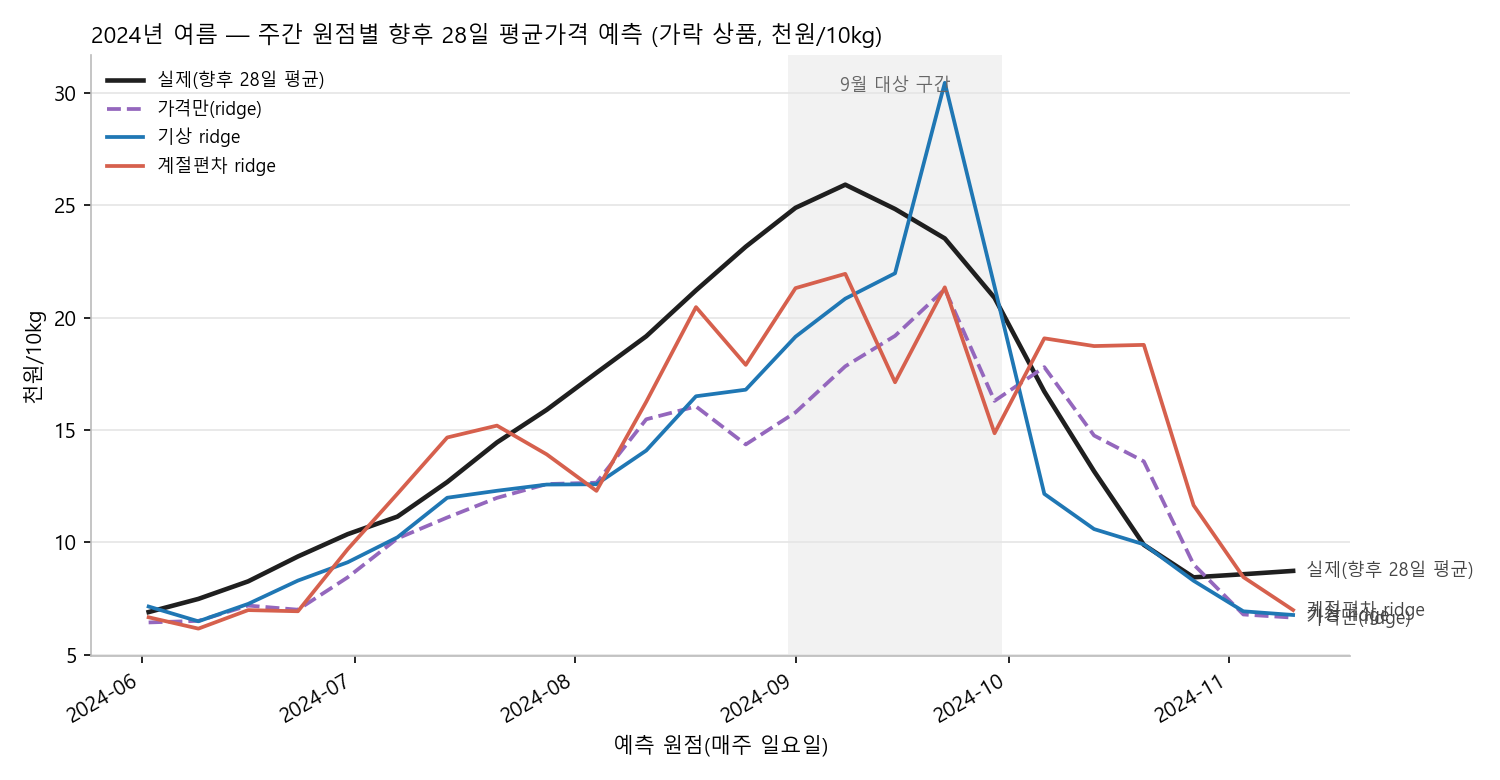
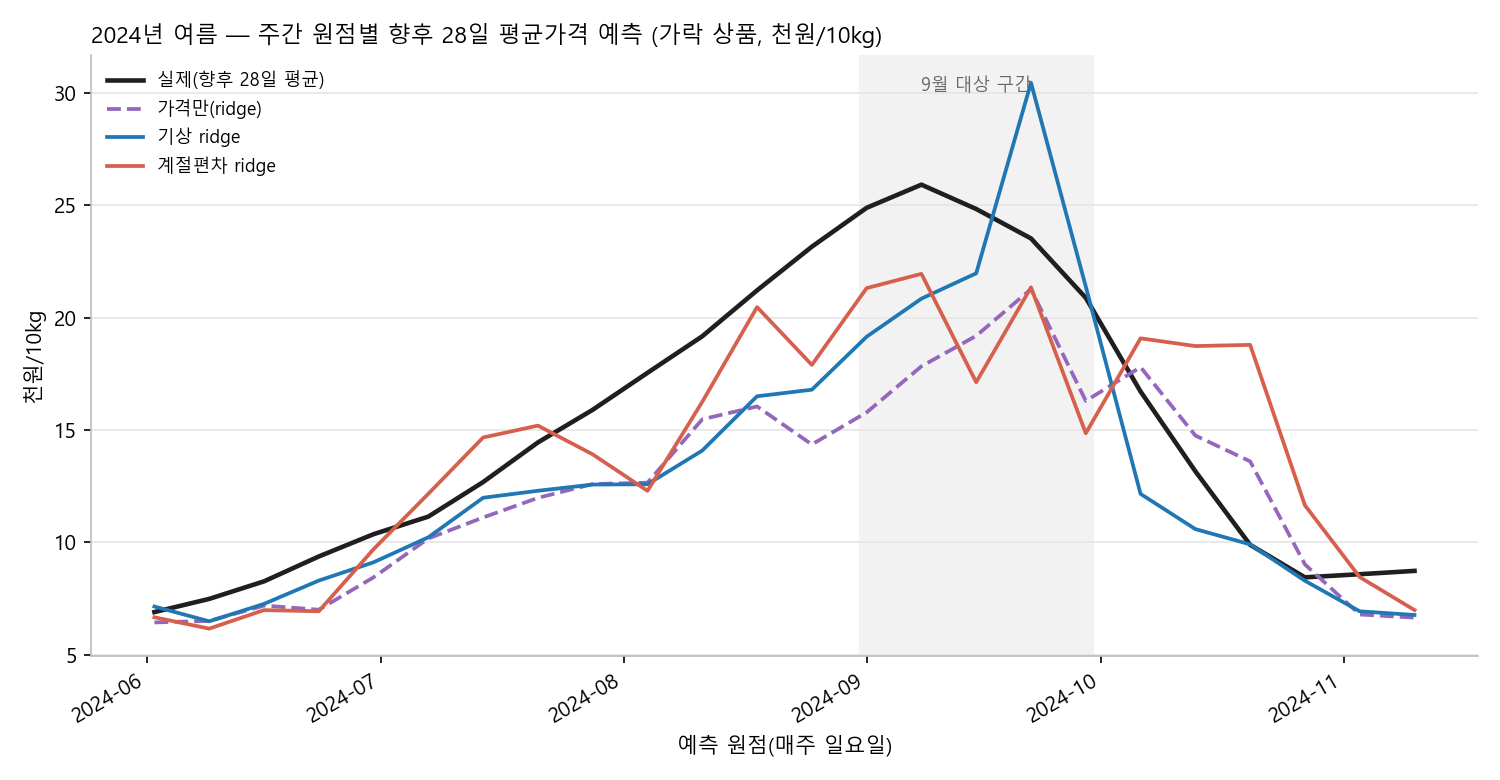
plot: 우측 끝 라벨 충돌 제거(범례로 대체)

diff --git a/src/plot_2024.py b/src/plot_2024.py
@@ -40,9 +40,6 @@ def main() -> None:
     fig, ax = plt.subplots(figsize=(10, 5.2), dpi=150)
     for col, label, color, lw, ls in SERIES:
         ax.plot(df.origin, df[col] / 1000, color=color, lw=lw, ls=ls, label=label)
-        last = df.iloc[-1]
-        ax.annotate(label, (last.origin, last[col] / 1000), xytext=(6, 0), textcoords="offset points",
-                    va="center", fontsize=8.5, color="#444")
     ax.axvspan(pd.Timestamp("2024-08-31"), pd.Timestamp("2024-09-30"), color="#000", alpha=0.05, lw=0)
     ax.text(pd.Timestamp("2024-09-15"), ax.get_ylim()[1] * 0.97, "9월 대상 구간", ha="center", va="top", fontsize=8.5, color="#666")
     ax.set_title("2024년 여름 — 주간 원점별 향후 28일 평균가격 예측 (가락 상품, 천원/10kg)", fontsize=11, loc="left")
